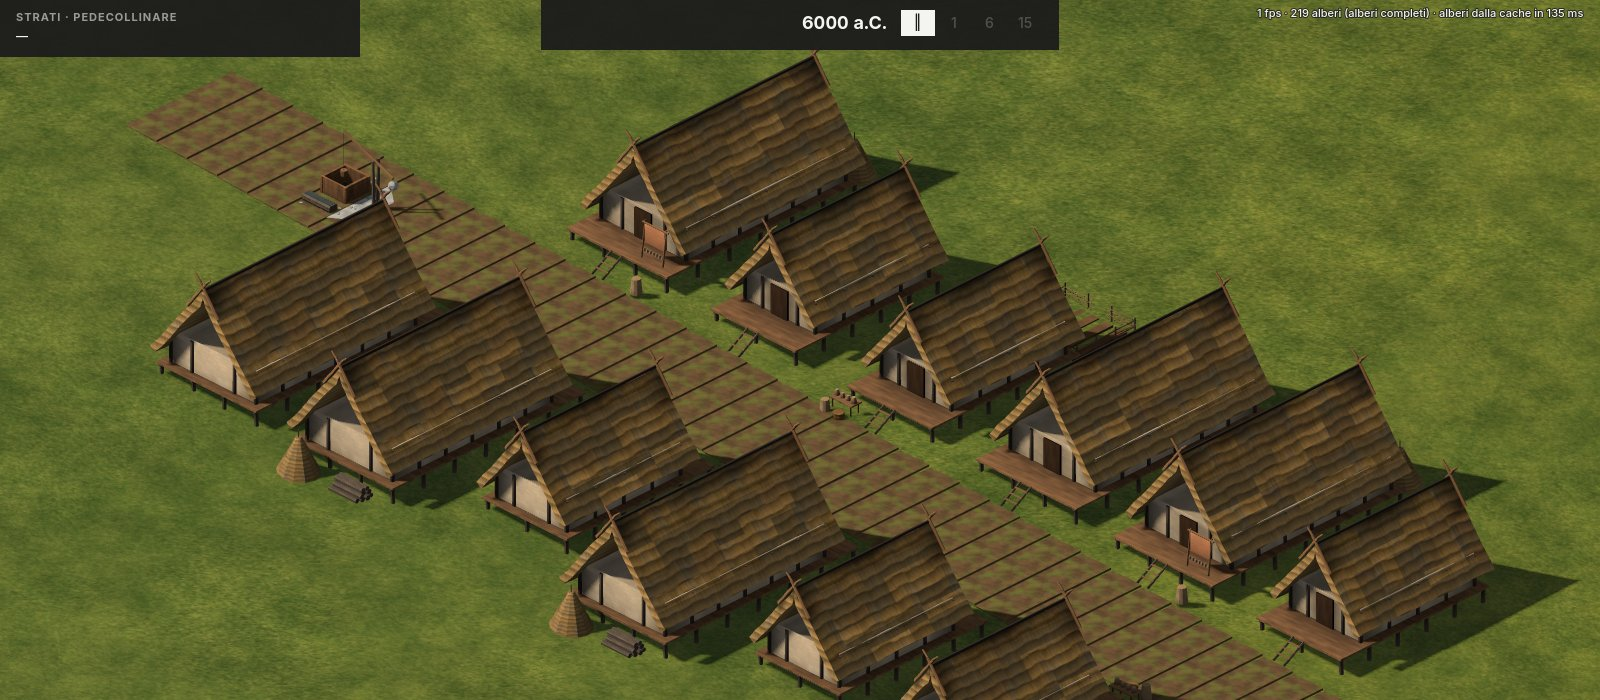
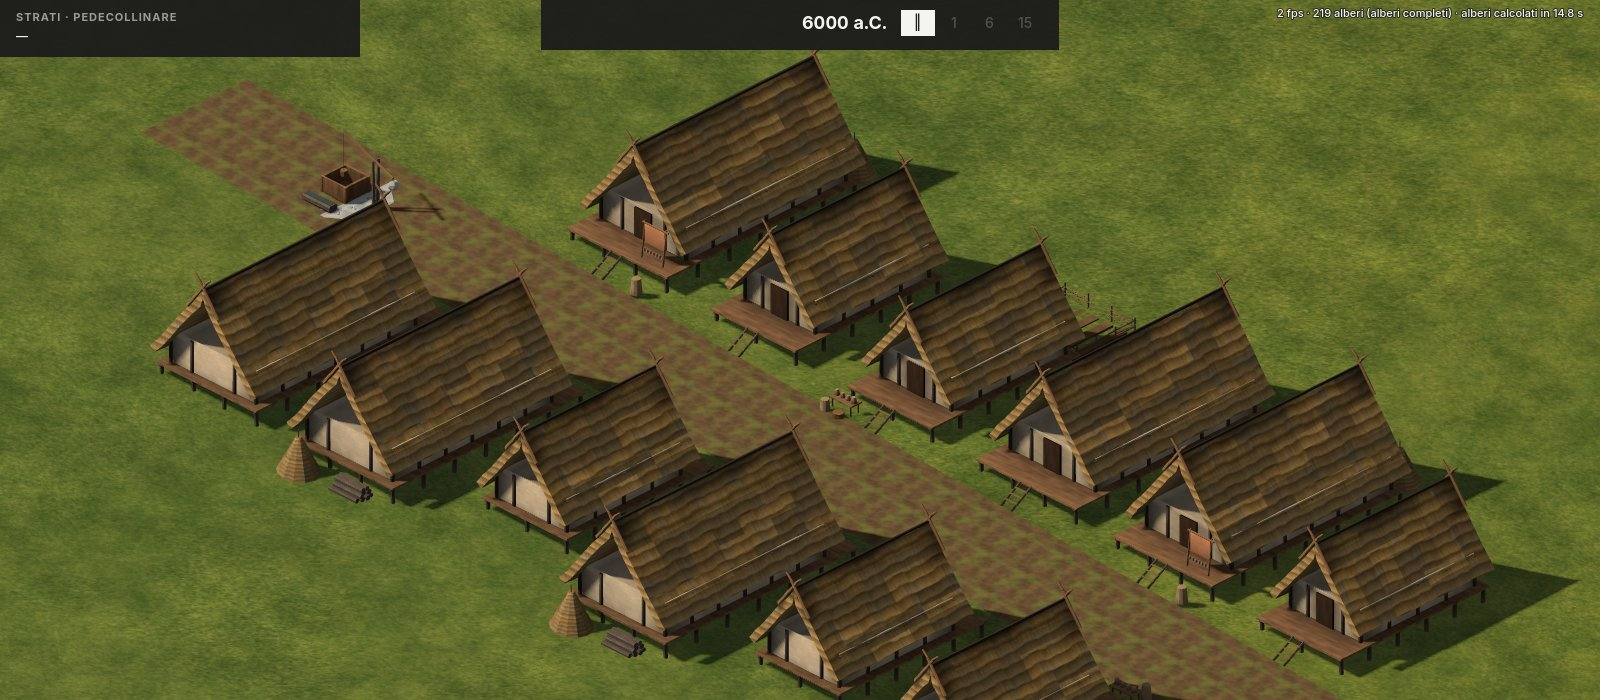
Fumo della casa del capo, foto della via con il nastro continuo, decisioni di Fede
Claude-Session: https://claude.ai/code/session_01N4eDGoXnksg2tKBjiqNC45

diff --git a/strumenti/blender/protourbano.py b/strumenti/blender/protourbano.py
@@ -187,6 +187,10 @@ def casa(nome, lungo, largo, seme, capo=False, annessi=None):
                 villaggio._graticcio_dritto(parti, m, rnd, p, q, 0.15, 5)
         villaggio._catasta(parti, m, rnd, -1.0, y0 + 1.2, lungo=3.0)
         parti.append(villaggio.sasso("macina", (0.7, 0.5, 0.3), (x1 - 2.0, y1 - 1.5, 0), m["pietra"], seme + 7))
+    if capo:
+        # Fumo del focolare (Fede, 27/11/2026: anche la casa del capo, luogo di riunione): senza
+        # camino, esce dalla paglia sotto il colmo; più rado e più piccolo di quello della fornace.
+        CAMINI[nome] = (-lungo / 6, 0.0, colmo - 0.15, 0.55, 0.8)
     if annessi is not None:
         annessi(parti, m, rnd, lungo, largo, ballatoio)
     return base.unisci(nome, parti)
@@ -409,6 +413,7 @@ def _fornace(parti, m, rnd, fx, fy, seme, cantiere=False):
 
 
 # Dove nasce il fumo dei camini, in coordinate del modello di Blender (x, y, z); in Godot (x, z, −y).
+# Due valori in più, facoltativi: densità e scala del fumo.
 CAMINI = {}
 
 
@@ -1014,8 +1019,10 @@ def _salva_camini():
     if os.path.exists(percorso):
         with open(percorso) as f:
             dati = json.load(f)
-    for nome, (x, y, z) in CAMINI.items():
-        dati[nome] = [round(x, 3), round(z, 3), round(-y, 3)]
+    for nome, v in CAMINI.items():
+        # x, y, z di Blender; poi, se ci sono, densità e scala del fumo (1 e 1 se mancano).
+        x, y, z = v[:3]
+        dati[nome] = [round(x, 3), round(z, 3), round(-y, 3)] + [round(a, 3) for a in v[3:]]
     if dati:
         with open(percorso, "w") as f:
             json.dump(dati, f, indent=1, sort_keys=True)

diff --git a/docs/asset.md b/docs/asset.md
@@ -153,7 +153,7 @@ Script `strumenti/blender/protourbano.py` → `gioco/asset/protourbano/`, con i 
 | officina_fabbro | 9,1 × 7,6 × 3,1 | 5079 | primo edificio dell'epoca 2 (Fede, 27/11). **Rifatta il 27/11** (Fede: "più personalizzazione, legno e roccia; la fornace non si distingue, l'incudine non si vede"): tettoia a una falda aperta davanti (il lato della via), pali grossi su zoccoli di sassi, dietro metà muretto a secco e metà graticcio; fornace a cupola sul piede di pietre, argilla annerita in alto, camino con le colature di fuliggine, bocca accesa rientrata nella cornice annerita con le braci davanti, mantici di fianco; incudine di pietra chiara fuori dalla tettoia, nello spiazzo di terra battuta; banco di tavole con stampi, crogioli e panelle; rastrelliera con asce, punte di lancia e una spada; sgabello, cassa, cesti di carbone, catasta, minerale, vasca in un tronco scavato. Materiali nuovi: `bronzo` (poco metallico, perché il renderer Compatibilità non ha riflessi e il metallo pieno viene scuro), `brace` (luce propria contenuta: con 4 la bocca era un riquadro bianco), argilla bruciata, fuliggine, pietra chiara, vimini |
 | cantiere_officina_fabbro | 8,8 × 6,9 × 2,9 | 3714 | zoccoli e pali, la trave davanti, metà dei correnti, il muretto già su, la fornace col piede di pietre e il corpo a metà; pali, paglia, argilla e sassi a terra |
 | casa_impalcato_piccola_b, _media_b | 15,8 × 5,9 / 16,3 × 6,9 | 1248 / 1202 | varianti per la fila sulla via (decisione di Fede del 27/11: le case si sviluppano sulla strada): davanti, sulla via, il banco con vasi, cesto e dolio (piccola) o il telaio a pesi sul ballatoio e un dolio (media); dietro l'orto (piccola) o cataste e pagliaio (media); sui fianchi niente |
-| santuario | 10,2 × 10,2 × 4,1 | 3675 | recinto sacro di pali e graticcio con l'ingresso verso la via; edicola a due falde con le corna su un basamento di pietre; altare di pietre e argilla con il fuoco (fuma: edificio comunitario, proposta di Claude); pali votivi con le corna, vasi delle offerte, fossa |
+| santuario | 10,2 × 10,2 × 4,1 | 3675 | approvato da Fede ("altare e santuario perfetto"): recinto sacro di pali e graticcio con l'ingresso verso la via; edicola a due falde con le corna su un basamento di pietre; altare di pietre e argilla con il fuoco, che fuma; pali votivi con le corna, vasi delle offerte, fossa |
 | tumulo | 11,9 × 11,8 × 3,6 | 2366 | monte di terra erbosa con il cerchio di pietre alla base e una stele in cima |
 | granaio_comune | 8,8 × 5,2 × 6,7 | 1140 | su pali alti 1,6 m con i dischi di pietra contro i topi, pareti di assi, tetto con le corna, scala a pioli, sacchi e giare |
 | pozzo | 4,9 × 5,6 × 3,5 | 1705 | vera di tavole incastrate, bilanciere con contrappeso e secchio, selciato di sassi, abbeveratoio in un tronco |
@@ -165,14 +165,14 @@ Script `strumenti/blender/protourbano.py` → `gioco/asset/protourbano/`, con i 
 
 Il tumulo e il recinto del bestiame non hanno cantiere (proposta di Claude: il tumulo si alza in un anno, il recinto si tira su come lo stabbio).
 
-Foto: `test/foto_cantieri.gd -- uscita dimensione rotazioni` con i modi `protourbano` (il primo lotto, con una casa lunga del villaggio per confronto), `fabbro` (officina finita e in cantiere), `officina` (solo l'officina, da vicino), `lotto2` (secondo lotto, sotto i cantieri) e `via` (case in fila sui due lati di una via, porta sulla strada, base e varianti alternate); immagini `docs/immagini/protourbano-27-11.jpg`, `fabbro-27-11.jpg`, `fabbro-rifatto-27-11.jpg`, `fabbro-rifatto-retro-27-11.jpg`, `fabbro-cantiere-27-11.jpg`, `protourbano-lotto2-27-11.jpg`, `case-sulla-via-27-11.jpg`.
+Foto: `test/foto_cantieri.gd -- uscita dimensione rotazioni` con i modi `protourbano` (il primo lotto, con una casa lunga del villaggio per confronto), `fabbro` (officina finita e in cantiere), `officina` (solo l'officina, da vicino), `lotto2` (secondo lotto, sotto i cantieri) e `via` (case in fila sui due lati di una via, porta sulla strada, base e varianti alternate; la via è un nastro di terra provvisorio, solo della foto); immagini `docs/immagini/protourbano-27-11.jpg`, `fabbro-27-11.jpg`, `fabbro-rifatto-27-11.jpg`, `fabbro-rifatto-retro-27-11.jpg`, `fabbro-cantiere-27-11.jpg`, `protourbano-lotto2-27-11.jpg`, `case-sulla-via-27-11.jpg`.
 
 ### Fumo dei camini (27/11/2026)
 Richiesta di Fede ("quanto comporta il fumo che esce dalla fornace, animato?"); decisioni di Fede: **non è legato alla simulazione** (c'è finché c'è l'edificio finito) e **per ora fumano solo le officine e gli edifici comunitari**, "altrimenti diventa una coltre di fumo, ben prima dell'epoca industriale". Le case non fumano.
 - **Come è fatto:** `script/vista_fumo.gd` (classe `VistaFumo`, creata da `VistaVillaggio`, `vista.fumo`): una sola MultiMesh di quadrati per tutti i camini, 12 sbuffi per camino con le fasi sfalsate. Il movimento sta in `shader/fumo.gdshader`: ogni sbuffo è rivolto alla camera, nasce alla bocca, sale rallentando (8 m in 10 s), si allarga (da 0,36 a 2,6 m di raggio), piega col vento, schiarisce e sfuma; il contorno è un rumore che scorre nel tempo, così le forme non si ripetono. Funziona con il renderer Compatibilità; le particelle di Godot (un nodo per camino) e il fumo volumetrico (assente in Compatibilità) sono state scartate.
-- **Dove nasce:** gli script di Blender scrivono `camini.json` accanto ai modelli (`CAMINI` in `protourbano.py`, coordinate di Godot), poco sotto l'orlo del camino. Oggi: `officina_fabbro` e `santuario` (il fuoco dell'altare, proposta di Claude). Un edificio nuovo con il fuoco si aggiunge lì; la vista lo trova da sola (`VistaVillaggio._sincronizza_edifici` aggiunge il fumo all'edificio finito e lo toglie al cantiere e alla demolizione).
+- **Dove nasce:** gli script di Blender scrivono `camini.json` accanto ai modelli (`CAMINI` in `protourbano.py`, coordinate di Godot), poco sotto l'orlo del camino; due valori in più, facoltativi, danno densità e scala. **Fumano** (decisioni di Fede del 27/11/2026): `officina_fabbro`, `santuario` (il fuoco dell'altare) e `casa_del_capo` (il focolare: senza camino, il fumo esce dalla paglia sotto il colmo, più rado e piccolo, densità 0,55 e scala 0,8; foto `docs/immagini/fumo-casa-del-capo-27-11.jpg`). Il granaio comune non fuma (non ha fuoco). La GIF della fornace è approvata da Fede ("perfetto così"). Un edificio nuovo con il fuoco si aggiunge lì; la vista lo trova da sola (`VistaVillaggio._sincronizza_edifici` aggiunge il fumo all'edificio finito e lo toglie al cantiere e alla demolizione).
 - **Verifica:** `verifica_asset.gd` (camino dentro la pianta del modello, case senza fumo, fumo che segue posizione e rotazione, tolto con l'edificio); ora la verifica legge anche `asset/protourbano` (lato massimo 30 m per la casa del capo con il cortile).
-- **Foto:** `test/foto_fumo.gd -- cartella [fotogrammi] [dimensione] [rotazioni] [passo]` salva i fotogrammi con il tempo dello shader fisso a ogni scatto; la GIF si fa con Python (Pillow, tavolozza comune di 96 colori): `docs/immagini/fumo-fabbro-27-11.gif`.
+- **Foto:** `test/foto_fumo.gd -- cartella [fotogrammi] [dimensione] [rotazioni] [passo] [modello]` salva i fotogrammi con il tempo dello shader fisso a ogni scatto; la GIF si fa con Python (Pillow, tavolozza comune di 96 colori): `docs/immagini/fumo-fabbro-27-11.gif`.
 
 ## Lotto del villaggio (24/11/2026, Fede: procedi)
 Script `strumenti/blender/villaggio.py` → `gioco/asset/villaggio/`, nello stile verosimile della prova (stessi materiali e forme, occlusione cotta). Comando: `blender-py strumenti/blender/villaggio.py gioco/asset/villaggio`, poi `godot --headless --path gioco --import` e, nei nuovi `.import` delle texture, `detect_3d/compress_to=0`.

diff --git a/CLAUDE.md b/CLAUDE.md
@@ -64,7 +64,7 @@ Dopo `sh scripts/setup_strumenti.sh`, aggiungi i comandi al percorso: `export PA
 - Era delle Origini (Villaggio e Abitato protourbano): cronologia, nomenclatura, meccaniche decise e traguardi della taratura in `docs/era-origini.md`. Era dell'Antichità (Città-stato e Città imperiale), sulla carta: `docs/era-antichita.md`.
 - Epoche future (sulla carta): sistemi che attraversano le epoche, identità e regime, vita delle costruzioni, dinamica calda, sottosuolo in `docs/epoche-future.md`; catalogo degli edifici per categoria di gioco, con lo scopo di ognuno, in `docs/edifici-per-epoca.md`. Quando si costruisce il villaggio, tenerne conto (per esempio struttura separata dalla funzione).
 - Testi del gioco e ritmo: i principi decisi da Fede stanno in testa a `docs/pilastri-e-decisioni.md` (ritmo meditativo) e nelle Regole qui sopra (niente riferimenti ad altri giochi nei testi).
-- Fumo dei camini (27/11/2026; decisioni di Fede: non legato alla simulazione, solo officine ed edifici comunitari): `script/vista_fumo.gd` (classe `VistaFumo`, `vista.fumo`), `shader/fumo.gdshader`; i punti dei camini in `asset/protourbano/camini.json`, scritti da `protourbano.py` (`CAMINI`). `VistaVillaggio._sincronizza_edifici` lo aggiunge agli edifici finiti che hanno un camino. Fotogrammi per la GIF: `test/foto_fumo.gd -- cartella [fotogrammi] [dimensione] [rotazioni] [passo]`. Dettagli in `docs/asset.md`.
+- Fumo dei camini (27/11/2026; decisioni di Fede: non legato alla simulazione, solo officine ed edifici comunitari): `script/vista_fumo.gd` (classe `VistaFumo`, `vista.fumo`), `shader/fumo.gdshader`; i punti dei camini in `asset/protourbano/camini.json`, scritti da `protourbano.py` (`CAMINI`). `VistaVillaggio._sincronizza_edifici` lo aggiunge agli edifici finiti che hanno un camino. Fumano officina, santuario e casa del capo. Fotogrammi per la GIF: `test/foto_fumo.gd -- cartella [fotogrammi] [dimensione] [rotazioni] [passo] [modello]`. Dettagli in `docs/asset.md`.
 - Asset: caricarli sempre con `Asset.istanzia(percorso)` (`script/asset.gd`), che attiva l'occlusione cotta nei colori dei vertici.
 - Resa grafica (terreno, prato, acqua, luce e ombre, alberi): sistemi comuni a tutte le mappe, descritti in `docs/resa-grafica.md`. Foto di controllo: `test/foto.gd`, `test/foto_asset.gd`, `test/foto_luogo.gd -- dimensione bosco|acqua|palude|gessi`.
 - Registro tecnico (voce B del todo, decisioni di Fede del 26/11/2026): `script/registro.gd` (classe `Registro`, creata da `principale.gd` solo nel gioco vero, non nelle verifiche e nelle foto). Un file di testo per sessione in `D:\Godot\Strati\Registro` (su Windows; altrimenti `user://registro/`), ultimi 10; ogni 10 s una riga di numeri, in mezzo gli eventi (caricamenti, fotogrammi sopra 100 ms con il contesto, errori e avvisi di Godot raccolti con un `Logger`, spunte, segnalibri). F3 apre la finestra Debug con i numeri dal vivo e le prove da spuntare (`Registro.PROVE`: aggiornarle quando le prove del todo cambiano); F9 scrive un segnalibro con una foto dello schermo. Per leggerlo, Claude chiede l'accesso alla cartella del PC di Fede con l'app desktop. Foto: `test/foto_registro.gd -- uscita`.

diff --git a/docs/epoca2-proposte.md b/docs/epoca2-proposte.md
@@ -4,7 +4,7 @@
 
 **Riferimento storico per la mappa pedecollinare** (area emiliana): l'età del Bronzo delle **terramare** (circa 1650–1150 a.C.): abitati quadrangolari con terrapieno, fossato e case su impalcato, crollati di colpo verso il 1150 per il sovrasfruttamento della terra. Dopo arriva l'età del Ferro **villanoviana** (dal IX secolo a.C., Bologna): capanne ovali o rettangolari, villaggi sparsi che si uniscono in un centro. L'epoca 2 va dal metallo (circa 2000 a.C.) a "la città si dà leggi" (circa 700 a.C.) e copre tutte e due.
 
-**Indicazioni di Fede (27/11/2026, 09:30):** l'abitato si gestisce con lo **zoning**; il **recinto** serve a proteggere dalle scorrerie; il **fabbro** rende più efficienti la **raccolta del cibo** e la **difesa**. "Controlla che sia tutto sinergico" (§ 1b). Alle 09:33: il fabbro va inserito **come edificio** (§ 2b). Alle 09:38: **il fabbro è il primo edificio che si sblocca con la nuova epoca.** Alle 09:59: **con il protourbano le strade diventano più importanti, quindi le case iniziano a svilupparsi maggiormente sulla strada** (voce 12 qui sotto). Alle 10:07, sul fumo dei camini: non è legato alla simulazione; per ora fumano solo gli edifici comunitari (e l'officina), "altrimenti diventa una coltre di fumo, ben prima dell'epoca industriale".
+**Indicazioni di Fede (27/11/2026, 09:30):** l'abitato si gestisce con lo **zoning**; il **recinto** serve a proteggere dalle scorrerie; il **fabbro** rende più efficienti la **raccolta del cibo** e la **difesa**. "Controlla che sia tutto sinergico" (§ 1b). Alle 09:33: il fabbro va inserito **come edificio** (§ 2b). Alle 09:38: **il fabbro è il primo edificio che si sblocca con la nuova epoca.** Alle 09:59: **con il protourbano le strade diventano più importanti, quindi le case iniziano a svilupparsi maggiormente sulla strada** (voce 12 qui sotto). Alle 10:07, sul fumo dei camini: non è legato alla simulazione; per ora fumano solo gli edifici comunitari (e l'officina), "altrimenti diventa una coltre di fumo, ben prima dell'epoca industriale". Alle 11:06: altare e santuario approvati; fuma anche la casa del capo (dal colmo, più rado).
 
 ## 1. Evoluzioni logiche del gioco: dal villaggio all'abitato
 Ogni voce dice cosa c'era nel villaggio e cosa diventa.

diff --git a/docs/todo.md b/docs/todo.md
@@ -271,7 +271,7 @@ Solo documenti, senza toccare codice o modelli (richiesta di Fede).
 - [x] Fabbro rifatto (27/11, richiesta di Fede: legno, pietra, fornace riconoscibile, incudine visibile) e **fumo animato** dei camini (decisioni di Fede: non legato alla simulazione, solo officine ed edifici comunitari). Da guardare con Fede: le foto e la GIF.
 - [x] Modelli, secondo lotto (27/11): santuario, tumulo, granaio comune, pozzo, recinto del bestiame, ponte, varianti `_b` delle case pensate per la fila sulla via, cantieri di case, casa del capo, recinto, santuario, granaio comune, pozzo e ponte. Da guardare con Fede.
 - **Deciso** (Fede, 27/11): con l'abitato le strade contano di più e **le case si sviluppano sulla via** (`epoca2-proposte.md` § 1, voce 12): da fare nella simulazione con recinto e zone.
-- **(?)** Quali edifici comunitari fumano: oggi l'officina e il santuario (fuoco dell'altare, proposta di Claude); da decidere la casa del capo, il luogo sacro del villaggio, il granaio comune (senza fuoco: proposta di no).
+- **Deciso** (Fede, 27/11): fumano l'officina, il santuario (fuoco dell'altare) e la casa del capo (dal colmo, più rado). Il granaio comune no. GIF del fumo approvata.
 - [ ] Simulazione dell'epoca 2, cominciando dal fabbro (strumento, scheda con la scelta attrezzi/armi, metallo, effetti su cibo e scorrerie, tutorial, specchietto delle conseguenze), poi recinto e zone.
 - Recinto o palizzata, con terrapieno e fossato: la regolazione dello spazio della seconda epoca (decisioni di Fede del 24 e 25/11/2026).
 - Gruppi capi, clan, sacerdote; famiglie eminenti e comuni che nascono dalla disuguaglianza creata dal giocatore, con attenzione agli equilibri di potere (`era-origini.md` § 6).

diff --git a/docs/diario.md b/docs/diario.md
@@ -2,6 +2,21 @@
 
 Voci più recenti in cima.
 
+## 27/11/2026 (mattina, 5) — fumo della casa del capo, foto della via
+**Fatto**
+- **Fumo della casa del capo:** nasce sotto il colmo, tra le corna (le capanne non avevano camino), più rado e piccolo di quello della fornace. `camini.json` accetta densità e scala; `VistaFumo` le applica. Foto `docs/immagini/fumo-casa-del-capo-27-11.jpg`.
+- **Foto della via rifatta** con un nastro di terra continuo. Le "traversine" viste da Fede erano gli scalini fra i pezzi della via provvisoria della foto; nel gioco le strade non le hanno.
+- `verifica_asset.gd`: fumano officina, santuario e casa del capo, e la casa del capo fuma meno della fornace. 12 verifiche superate.
+
+**Decisioni** (Fede, 27/11, 11:06–11:07)
+- Altare e santuario: **perfetti**. GIF del fumo: **perfetta così**.
+- Fuma anche la **casa del capo**, come proposto (dal colmo, più rado). Il granaio comune no.
+
+**Prossimo passo**
+- Fede conferma le proposte dell'epoca 2 (§ 1, § 2, § 2b di `epoca2-proposte.md`).
+- Poi la simulazione dell'epoca 2, cominciando dal fabbro.
+- In attesa: la prova al PC (F3) e la lettura del Registro; il bilanciamento delle scorrerie; la prossima Era sulla carta.
+
 ## 27/11/2026 (mattina, 4) — fabbro rifatto, fumo dei camini, secondo lotto dell'epoca 2
 **Fatto**
 - **Officina del fabbro rifatta** (Fede: "così è un po' anonimo"; legno e pietra; la fornace non si distingue, l'incudine non si vede):

diff --git a/docs/specchietto.md b/docs/specchietto.md
@@ -59,7 +59,7 @@ Territorio e sensibilità → opere e zone → **campi del lotto** → edifici c
 - **Scorrerie** (voce 4, 26/11/2026): dalla tappa dei 100 abitanti; segni prima, politica "Ai segni di pericolo" e torre di avvistamento sull'altura; dopo una scorreria l'abitato si stringe (ponte verso il recinto dell'epoca 2).
 
 - **Popolazione visibile** (voce 7): figure che fanno i lavori veri della simulazione, con animazioni; numeri da misurare con Fede.
-- **Fumo dei camini** (27/11/2026) **D**: animato, non legato alla simulazione; per ora solo officine ed edifici comunitari (niente case: "altrimenti diventa una coltre di fumo"). Dettagli in `asset.md`.
+- **Fumo dei camini** (27/11/2026) **D**: animato, non legato alla simulazione; per ora solo officine ed edifici comunitari (niente case: "altrimenti diventa una coltre di fumo"): officina del fabbro, santuario, casa del capo. Dettagli in `asset.md`.
 - **Epoca 2, le case sulla via** (27/11/2026) **D**: con l'abitato le strade contano di più e le case si sviluppano lungo la strada (`epoca2-proposte.md` § 1, voce 12).
 
 ## Regole da non dimenticare **D**
